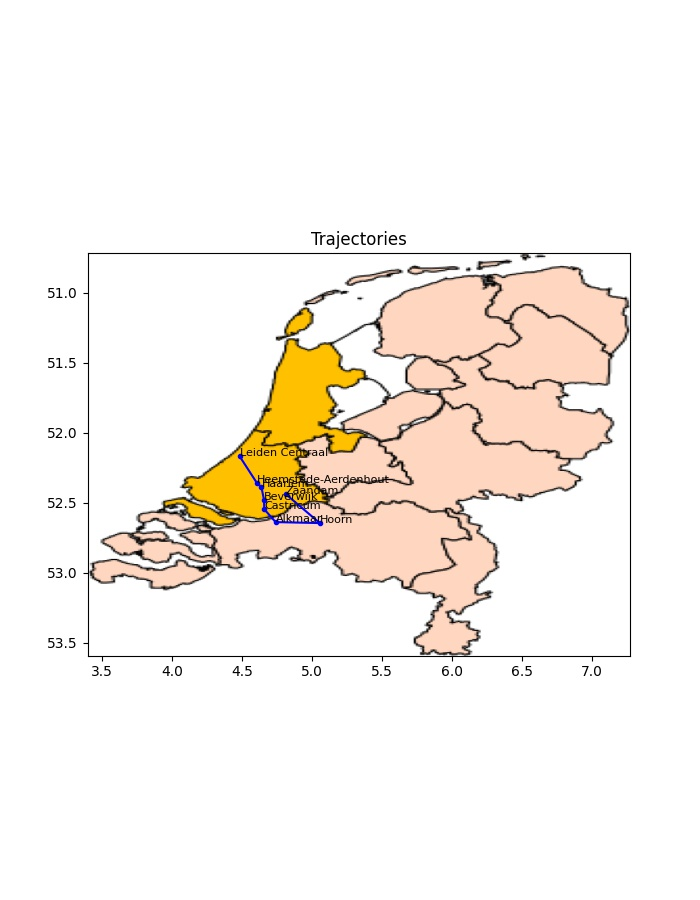
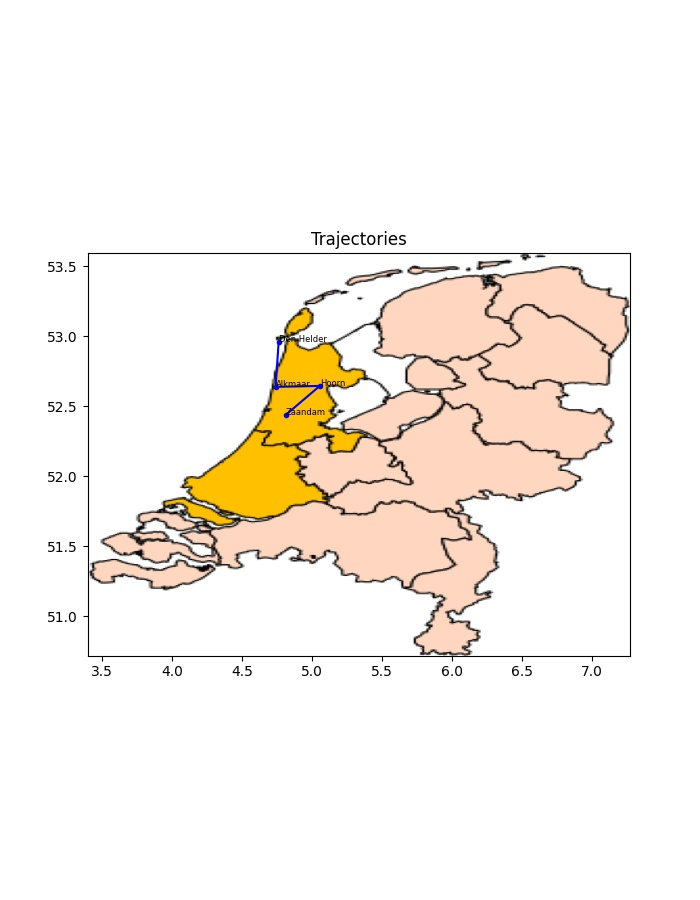
score calculation updated

diff --git a/code/classes/map.py b/code/classes/map.py
@@ -10,6 +10,8 @@ class Kaart():
         self.number_of_trains = 0
         self.stations = self.load_stations(stations_file)
         self.total_distance = 0
+        self.number_of_connections = 0
+        self.number_of_ridden_connections = 0
 
     def load_stations(self, stations_file):
         
@@ -35,17 +37,19 @@ class Kaart():
 
     def calculate_score(self):
                
-        total_stations = len(self.stations)
-        ridden_stations = 0
+        # total_stations = len(self.stations)
+        # ridden_stations = 0
        
-        for station in self.stations:
-            # print("Loop entered")
-            print(f"Times visited: {station.times_visited}")
-            if station.times_visited > 0:
-                ridden_stations += 1
+        # for station in self.stations:
+        #     # print("Loop entered")
+        #     # print(f"Times visited: {station.times_visited}")
+        #     if station.times_visited > 0:
+        #         ridden_stations += 1
 
-        p = ridden_stations / total_stations
-        print(f"ridden_stations:{ridden_stations}")
+        p = self.number_of_ridden_connections / self.number_of_connections
+        print(self.number_of_ridden_connections)
+        print(self.number_of_connections)
+        # print(f"ridden_stations:{ridden_stations}")
         print(f"p:{p}")
         T = self.number_of_trains
         print(f"T:{T}")

diff --git a/code/algorithms/randomise.py b/code/algorithms/randomise.py
@@ -9,6 +9,7 @@ def randomise_train(test_map, number_of_trains):
     trains_data = []
     trains = []
     train_distances = []
+    ridden_connections = []
     
     for i in range(number_of_trains - 1):
         number_of_stations = random.randint(2,22)
@@ -41,10 +42,14 @@ def randomise_train(test_map, number_of_trains):
             # print(next_station_data)
             next_station = next_station_data[0]
             # print(next_station)
-            
+                    
             if train_distance + next_station_data[1] > TIME_FRAME:
                 break
 
+            connection_id = next_station_data[2]
+            print(f"[{station}, {next_station}]")
+            ridden_connections.append(connection_id) 
+            
             train_distance += next_station_data[1]
             # print(train_distance)
             train.append(next_station)
@@ -57,7 +62,13 @@ def randomise_train(test_map, number_of_trains):
     trains_data.append(trains)
     # print(train_distances)
     trains_data.append(train_distances)
+
+    elimin = [] 
+    [elimin.append(cnx_id) for cnx_id in ridden_connections if cnx_id not in elimin]
+    test_map.number_of_ridden_connections = len(elimin)
     
+    print(ridden_connections)
+    print(elimin)
     # print(trains_data[1])
     return trains_data
 

diff --git a/main.py b/main.py
@@ -2,6 +2,7 @@ from code.classes.map import Kaart
 from code.classes.station import Station
 from code.algorithms.randomise import randomise_train
 from code.visualisation.visualise import visualise
+import csv
 import random
 
 if __name__ == '__main__':
@@ -16,6 +17,11 @@ if __name__ == '__main__':
     for station in test_map.stations:
         # print(station)
         station.add_directions(connections_file, test_map.stations)
+
+    with open(connections_file, 'r') as in_file:
+        reader = csv.reader(in_file)
+        test_map.number_of_connections = len(list(reader)) - 1
+        # print(number_of_connections)
 
     # visualise(test_map.directions)
     
@@ -44,9 +50,9 @@ if __name__ == '__main__':
         train_distance = trains_distances[id-1]
         test_map.add_train(train_id, train, train_distance)
 
-        visualise(train)
-
         id += 1
+
+    visualise(test_map)
 
     # create csv output file
     test_map.create_output()

diff --git a/code/classes/station.py b/code/classes/station.py
@@ -12,12 +12,15 @@ class Station():
         
         with open(connections_file, 'r') as in_file:
             reader = csv.DictReader(in_file)
+            
+            connection_id = 0
 
             for row in reader:
+                connection_id += 1
                 if row['station1'] == self.name:
-                    self.directions.append([row['station2'], int(row['distance'])])
+                    self.directions.append([row['station2'], int(row['distance']), connection_id])
                 elif row['station2'] == self.name:
-                    self.directions.append([row['station1'], int(row['distance'])])
+                    self.directions.append([row['station1'], int(row['distance']), connection_id])
 
         for direction in self.directions:
             for station in stations_list:
